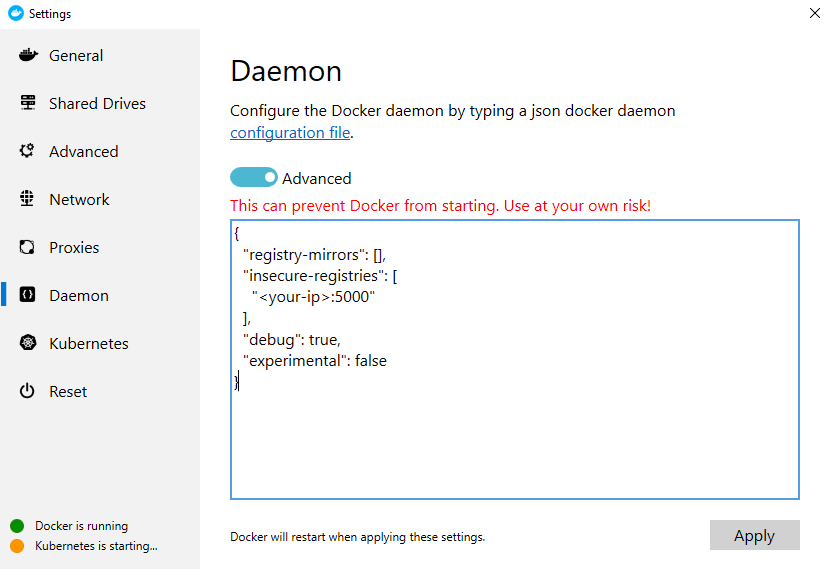
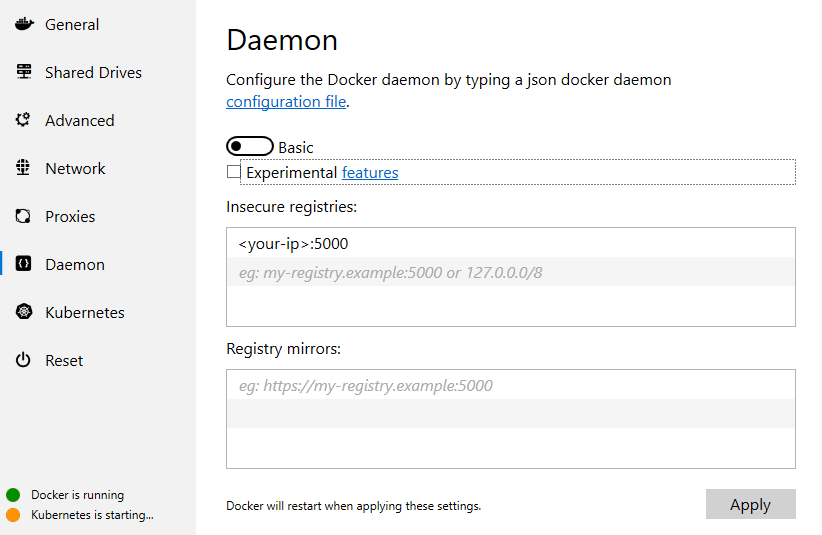
update readme

diff --git a/readme.md b/readme.md
@@ -173,9 +173,9 @@ Interactive Kubernetes Tutorial: [Kubernetes.io Basics](https://kubernetes.io/de
 
 * Check if it works:
 
-Jenkins: `localhost:8090`
+    Jenkins: `localhost:8090`
 
-Registry: `localhost:5000/v2/\_catalog`
+    Registry: `localhost:5000/v2/\_catalog`
 
 * Setup Jenkins:
     * Open `localhost:8090` in a browser
@@ -185,12 +185,12 @@ Registry: `localhost:5000/v2/\_catalog`
         cat /var/jenkins_home/secrets/initialAdminPassword
         ```
     * After account setup, choose "*Install suggested plugins*"
-
     ![Jenkins Welcome Screen](https://raw.githubusercontent.com/bdruesedow/kubernetes-workshop/master/lecture/images/jenkins.PNG)
+    * Create Username/Password Credentials based on your GitHub Login
+    ![Jenkins Credentials](https://raw.githubusercontent.com/bdruesedow/kubernetes-workshop/master/lecture/images/jenkins_credentials.PNG)
 
 * Create a new Multibranch Pipeline
     * Add Branch Sources -> GitHub
-    * Create Username/Password Credentials based on your GitHub Login
     * Enter Repository URL (https://github.com/bdruesedow/kubernetes-workshop.git)
     * Jenkinsfile path is `greeting-service/Jenkinsfile`
 * Scan Multibranch Pipeline
@@ -200,3 +200,24 @@ Registry: `localhost:5000/v2/\_catalog`
 * Remove unused containers: `docker container prune`
 * Remove unused networks: `docker network prune`
 * Remove unused images: `docker image prune`
+
+## Troubleshoot:
+
+![Jenkins Credentials](https://raw.githubusercontent.com/bdruesedow/kubernetes-workshop/master/lecture/images/registry_error.PNG)
+
+Docker daemon has not permission to pull from an insecure registry, that is not configured in `daemon.json`. To fix this, add the registry as insecure regsitry.
+
+With docker desktop:
+
+![Docker Settings Daemon](https://raw.githubusercontent.com/bdruesedow/kubernetes-workshop/master/lecture/images/daemon.PNG)
+
+or directly the `daemon.json` file:
+
+```               
+{                                           
+ "registry-mirrors": [],                   
+ "insecure-registries": ["<your-ip>:5002"],
+ "debug": true,                            
+ "experimental": false                     
+}                                           
+```
